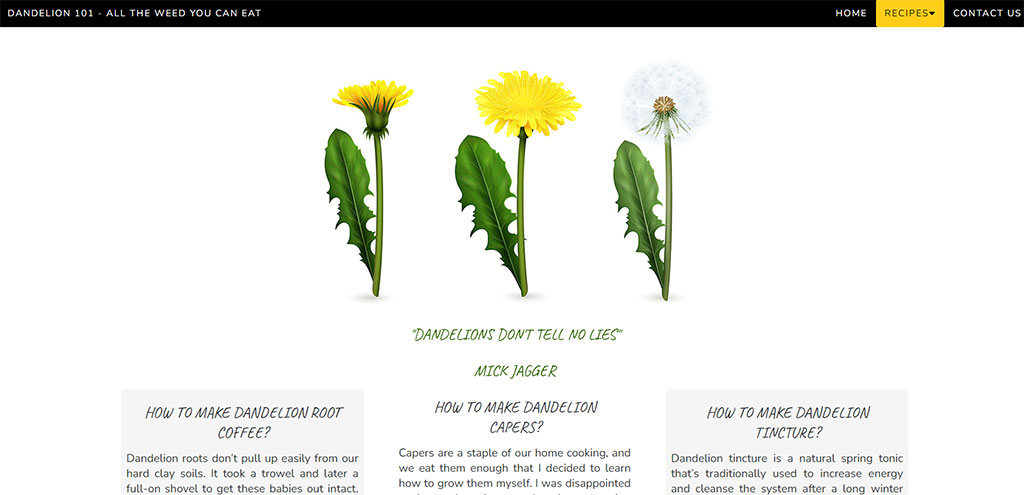
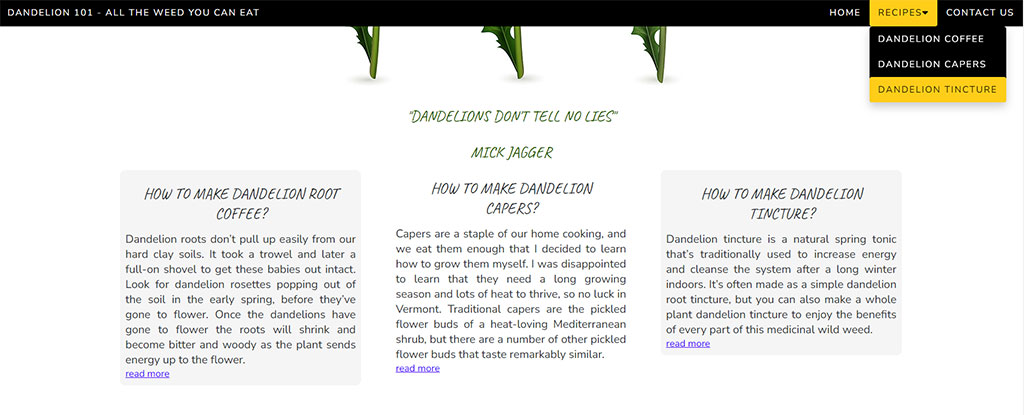
Replace recipes.jpg

Changed region(s): [[0.0, 0.0, 1.0, 1.0]]

diff --git a/README.md b/README.md
@@ -108,6 +108,8 @@ the social links. Each link will open in a separate tab in a browser.
 * The navigation is made easy by either jumping directly to the recipe by using the link at the
 	end of the recipe introduction or using the navigation bar.
 
+![RecipesPage](/assets/images/recipes.jpg)
+
 ## The Contact Us page
 
 * The Contact Us page gives the visitor the possibility to sign up for the Dandelion101 newsletter
